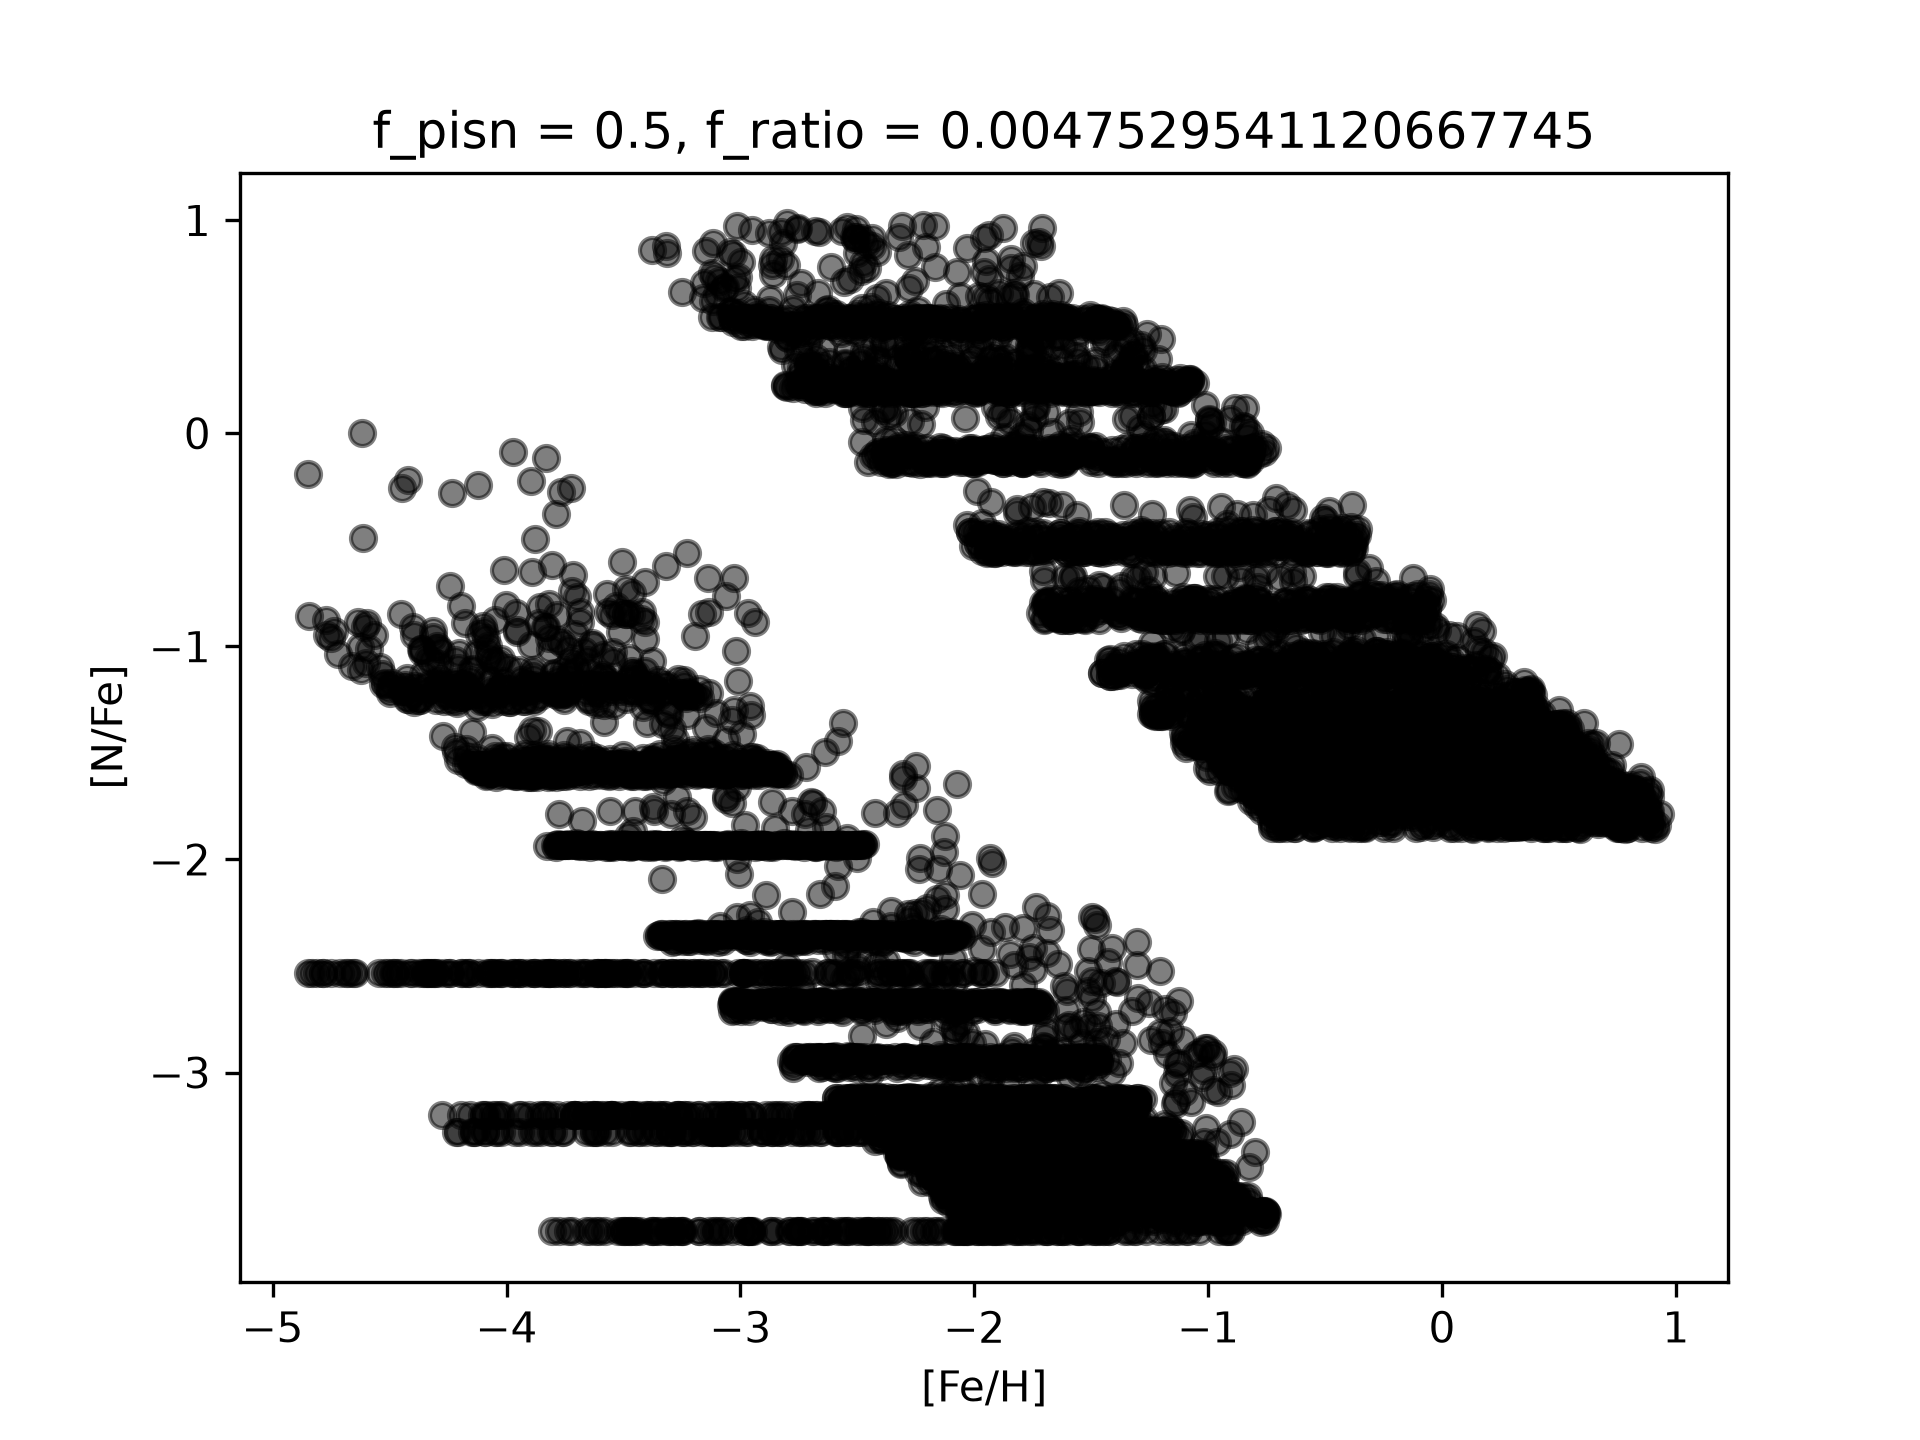
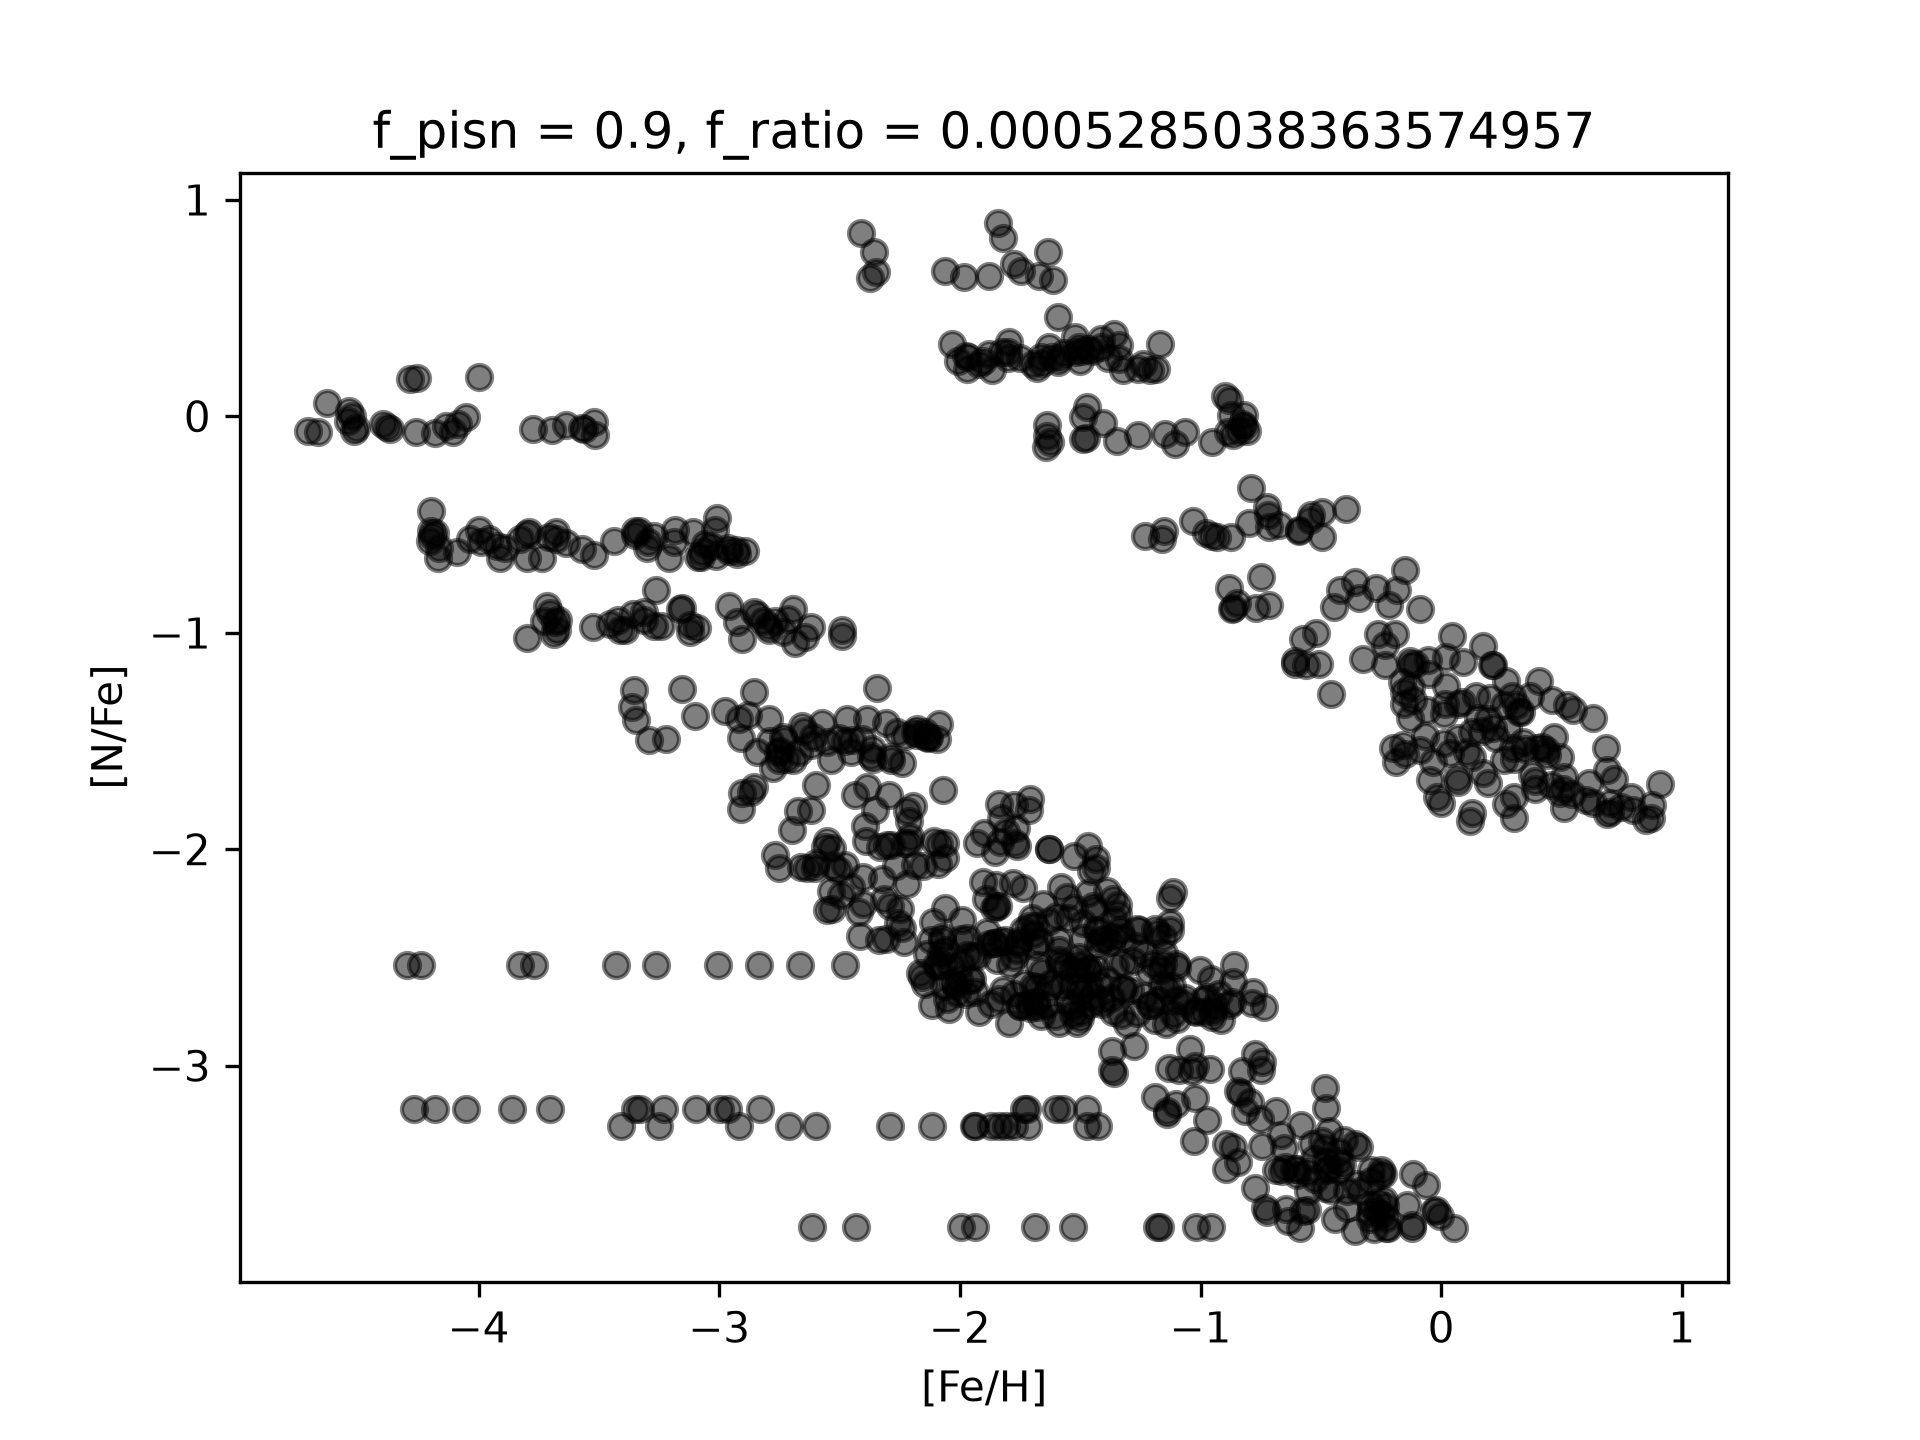
Bug: Z_star

diff --git a/src/salvadori/fig7.py b/src/salvadori/fig7.py
@@ -37,7 +37,7 @@ for elem in ["Cu", "Zn", "N"]:
         pisn_entry = random.choice(salvadori_pisn_yields)
         sn_entry = random.choice(sn_yields)
 
-        f_pisn = 0.5
+        f_pisn = 0.9
         f_ratio = loguniform.rvs(1e-4, 1e-1)
         tpop2 = loguniform.rvs(3e6, 30e6)
         # tpop2 = random.choice(tpop2_values)
@@ -50,9 +50,9 @@ for elem in ["Cu", "Zn", "N"]:
         combined_ratio_wrtH = salvadori_combined_abundratio_WrtH("Fe","Fe", pisn_data=pisn_entry, f_pisn=f_pisn, f_ratio=f_ratio, tpop2=tpop2)
 
         if combined_ratio < -4 or combined_ratio_wrtH < -5:
-            print("Very low ratio detected")
-            print("Elem", elem,"\n", "PISN", pisn_details, "\n", "SN", "_NA_", "\n", "Combined Ratio", combined_ratio, "\n", "Combined Ratio w.r.t H", combined_ratio_wrtH)
-            print("-------------------------------")
+            # print("Very low ratio detected")
+            # print("Elem", elem,"\n", "PISN", pisn_details, "\n", "SN", "_NA_", "\n", "Combined Ratio", combined_ratio, "\n", "Combined Ratio w.r.t H", combined_ratio_wrtH)
+            # print("-------------------------------")
             continue # do not add to the list if the ratio is very low, but print details for debugging
 
         X_Fe.append(combined_ratio)

diff --git a/src/salvadori/fig4.py b/src/salvadori/fig4.py
@@ -6,20 +6,15 @@ from src.salvadori_funcs import salvadori_combined_abundratio_WrtH
 from src.salvadori_funcs import salvadori_yields as salvadori_yields_convert
 from src.utils import _combine_elements
 
-from params import ww95_001Z
-
 hw_yields = load_hw2002()
 takahashi_yields = load_takahashi()
 takahashi_yields = takahashi_yields["NR"]
-ww95_yields = load_ww95(ww95_001Z)
 
 hw_yields = hw_yields[1:]
 
 pisn_yields = hw_yields
-sn_yields = ww95_yields
 
 salvadori_pisn_yields = salvadori_yields_convert(pisn_yields)
-salvadori_sn_yields = salvadori_yields_convert(sn_yields)
 
 # Style keyed to match Salvadori+2019 Fig. 4 (label -> (marker, color))
 STYLE = {
@@ -31,7 +26,7 @@ STYLE = {
 }
 
 tpop2_list = [3e6, 6e6, 10e6, 20e6, 30e6]  # in years
-f_pisn = 0.5
+f_pisn = 0.9
 
 fig, ax = plt.subplots(figsize=(6, 5))
 
@@ -65,6 +60,6 @@ ax.set_ylabel(r"$[\mathrm{Fe}/\mathrm{H}]$")
 ax.legend(fontsize=8)
 ax.grid(True, alpha=0.3)
 plt.minorticks_on()
-plt.title(r"Abundance ratio $[\mathrm{Fe}/\mathrm{H}]$ vs. mPISN for different $t_\mathrm{popII}$", fontsize=10)
+plt.title(r"Abundance ratio $[\mathrm{Fe}/\mathrm{H}]$ vs. mPISN for different ; f_pisn = " + str(f_pisn), fontsize=10)
 plt.savefig("plots/salv_figures/fig4.png", dpi=300, bbox_inches="tight")
 plt.show()

diff --git a/src/salvadori_funcs.py b/src/salvadori_funcs.py
@@ -10,7 +10,7 @@ from src.formulas import larson_imf, raiteri_mass_from_lifetime, raiteri_lifetim
 from src.load_data import load_ww95
 
 from .utils import _combine_elements, _get_element
-from params import asplund, atomic_mass
+from params import asplund, atomic_mass, Z_SUN
 
 
 def salvadori_yields(data: list[dict]) -> list[dict]:
@@ -170,7 +170,7 @@ def salvadori_combined_abundratio(elem1_pisn: str, elem1_sn: str, elem2_pisn: st
 
     Z_star = f_ratio * Yz_pisn
 
-    ww_model = salvadori_select_ww95_model(Z_star)
+    ww_model = salvadori_select_ww95_model(Z_star/Z_SUN)
     sn_data = load_ww95(ww_model)
 
     m_popII = raiteri_mass_from_lifetime(lifetime=tpop2,Z=Z_star)
@@ -232,7 +232,8 @@ def salvadori_combined_abundratio_WrtH(elem1_pisn: str, elem1_sn: str, pisn_data
 
     Z_star = f_ratio * Yz_pisn
 
-    ww_model = salvadori_select_ww95_model(Z_star)
+    ww_model = salvadori_select_ww95_model(Z_star/Z_SUN)
+    print(f"Selected WW95 model: {ww_model} for Z_star/Z_SUN = {Z_star/Z_SUN}")
     sn_data = load_ww95(ww_model)
 
     m_popII = raiteri_mass_from_lifetime(

diff --git a/params.py b/params.py
@@ -14,6 +14,8 @@ ww95_00001Z = "data/raw/WW95/Woosley_Weaver_Table_14A_14B.tsv"
 f_star_by_f_dil = [1e-4, 1e-1]
 f_dil = [0.02, 10]
 
+Z_SUN = 0.02
+
 # A(X) values from Asplund+09, Table 1
 """
 A(X) = log10(Nx/NH) + 12
